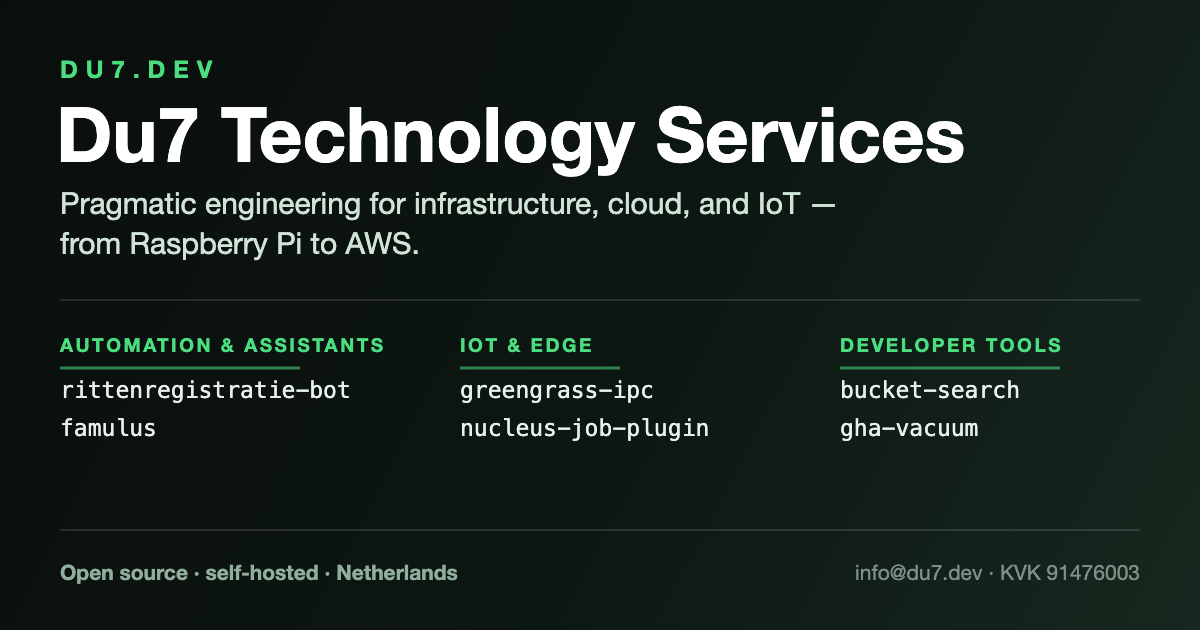
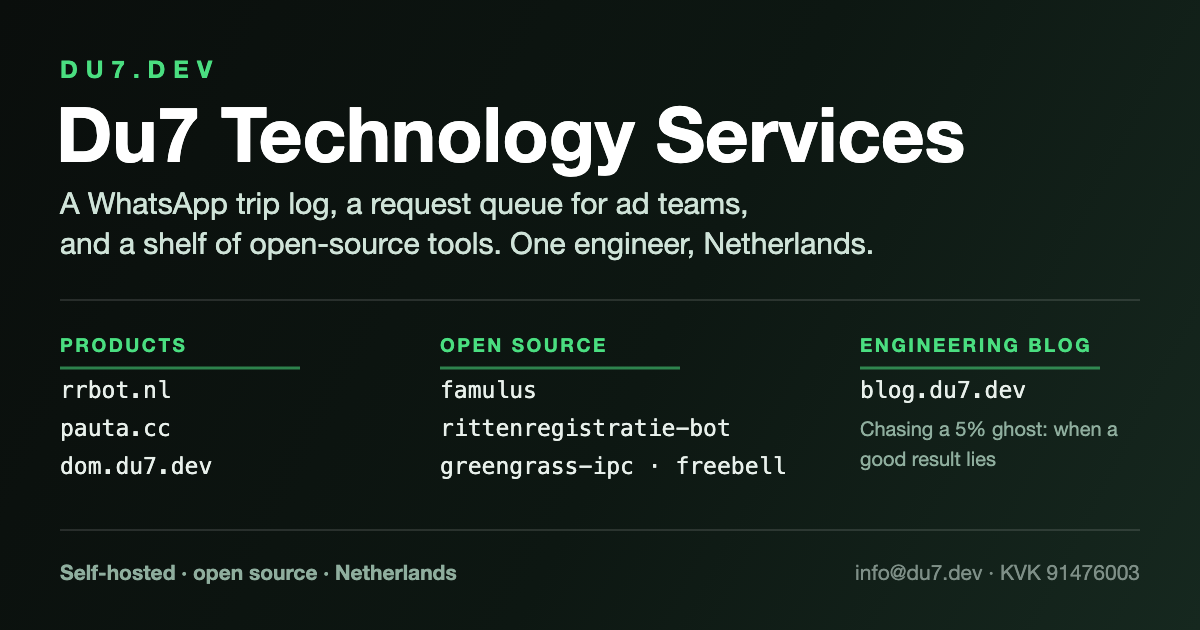
site: og-cover with products, open source and blog; From-the-blog section
Redraws the share image around rrbot.nl, pauta.cc, dom.du7.dev, the
open-source tools and blog.du7.dev, and adds a From-the-blog section
with the one post so far.

diff --git a/index.html b/index.html
@@ -22,7 +22,7 @@
   <meta property="og:image" content="https://du7.dev/assets/og-cover.png">
   <meta property="og:image:width" content="1200">
   <meta property="og:image:height" content="630">
-  <meta property="og:image:alt" content="Du7 Technology Services — projects across automation, IoT and developer tooling.">
+  <meta property="og:image:alt" content="Du7 Technology Services: rrbot.nl, Pauta and Dominion Archive, open-source tools, and the engineering blog.">
   <meta property="og:locale" content="en_US">
   <meta name="twitter:card" content="summary_large_image">
   <meta name="twitter:title" content="Du7 Technology Services">
@@ -274,6 +274,7 @@
       margin: -1.5rem auto 3.5rem;
     }
     .also a { color: var(--accent); }
+    .posts { max-width: 46rem; margin: 0 auto 3.5rem; }
     .contact { text-align: center; margin-bottom: 1rem; }
     .contact a {
       display: inline-block;
@@ -460,8 +461,23 @@
       the Home Assistant plugin that logs a trip when the ignition goes off, and
       <a href="https://github.com/eduelias/valheim-character-worlds">valheim-character-worlds</a>,
       a Valheim mod that shows every world a character has played on the character select screen
-      (on Thunderstore). Longer write-ups are on the <a href="https://blog.du7.dev/">engineering blog</a>.
+      (on Thunderstore).
     </p>
+
+    <h2 class="row-title">From the blog</h2>
+    <p class="row-lead">Longer write-ups from the engineering work, at
+    <a href="https://blog.du7.dev/" style="color: var(--accent)">blog.du7.dev</a>.</p>
+    <div class="posts">
+      <a class="card" href="https://blog.du7.dev/2026/08/04/chasing-a-5-percent-ghost/">
+        <div class="card-body">
+          <span class="kind">4 August 2026 · 12 min read</span>
+          <h3>Chasing a 5% Ghost: When a Good Result Lies</h3>
+          <p>How a fleet of 1,800 Raspberry Pi Compute Modules taught me to distrust a passing test. A
+          hardware brown-out detective story with an oscilloscope, a cellular modem, and one very
+          tempting wrong answer.</p>
+        </div>
+      </a>
+    </div>
 
     <div class="contact">
       <a href="mailto:info@du7.dev">info@du7.dev</a>
